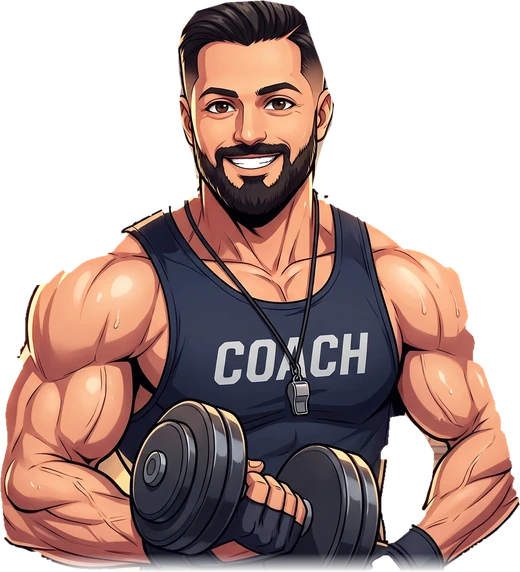
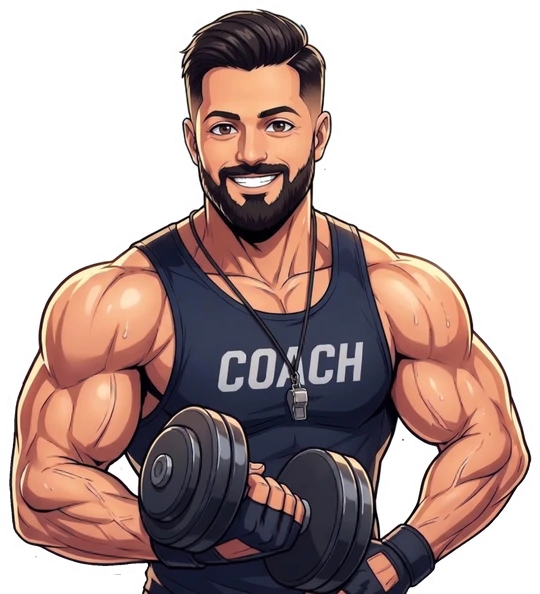
Mostafa Gym: coach sticker artwork
Claude-Session: https://claude.ai/code/session_01Bn2HqEUpbe9FqCu2SMgQkR

diff --git a/mostafa-gym/app.js b/mostafa-gym/app.js
@@ -681,7 +681,7 @@ function applyChrome(){
   $("#ctySeg").setAttribute("aria-label",t("country"));
   $("#ctySeg").innerHTML=["sa","eg"].map(c=>`<button data-cty="${c}" aria-pressed="${S.country===c}">${FLAG[c]} ${t("cur_"+c)}</button>`).join("");
   const tabs=[["profile","bullseye"],["body","balance_scale"],["food","green_salad"],["gym","person_lifting_weights"],["coach","robot"],["export","clipboard"]];
-  $("#tabs").innerHTML=tabs.map(([k,i])=>k==="coach"?`<button class="tab coachtab" role="tab" data-tab="coach" aria-selected="${S.tab==="coach"}"><span class="coachav" aria-hidden="true"><img src="img/coach.webp?v=3" alt=""></span>${t("tab_coach")}</button>`:`<button class="tab" role="tab" data-tab="${k}" aria-selected="${S.tab===k}"><img src="img/food/${i}.webp" alt="">${t("tab_"+(k==="food"?"food":k))}</button>`).join("");
+  $("#tabs").innerHTML=tabs.map(([k,i])=>k==="coach"?`<button class="tab coachtab" role="tab" data-tab="coach" aria-selected="${S.tab==="coach"}"><span class="coachav" aria-hidden="true"><img src="img/coach.webp?v=4" alt=""></span>${t("tab_coach")}</button>`:`<button class="tab" role="tab" data-tab="${k}" aria-selected="${S.tab===k}"><img src="img/food/${i}.webp" alt="">${t("tab_"+(k==="food"?"food":k))}</button>`).join("");
   $("#foot").innerHTML=`<p>${esc(t("credits"))}</p><p>${esc(t("saved_local"))}</p>`;
   
 }

diff --git a/mostafa-gym/coach.js b/mostafa-gym/coach.js
@@ -125,7 +125,7 @@ function bubble(m,i){
 function suggestions(){return ["coach_q1","coach_q2","coach_q3","coach_q4","coach_q5","coach_q6"].map(k=>`<button class="chip sm" data-coachq="${esc(t(k))}">${esc(t(k))}</button>`).join("");}
 function render(){
   const h=hist();
-  return `<section class="card coach"><div class="coachhead"><img class="coachhero" src="img/coach.webp?v=3" alt="${esc(t("coach_name"))}"><div><h3>${esc(t("coach_title"))}</h3>
+  return `<section class="card coach"><div class="coachhead"><img class="coachhero" src="img/coach.webp?v=4" alt="${esc(t("coach_name"))}"><div><h3>${esc(t("coach_title"))}</h3>
     <p class="hi">${esc(t("coach_hello"))}</p><p class="sub" style="margin:0">${esc(t("coach_desc"))}</p></div></div>
     <div class="chatlog" id="chatlog">${h.length?h.map(bubble).join(""):`<div class="cempty">${esc(t("coach_empty"))}</div>`}</div>
     <div class="chips cq">${suggestions()}</div>
